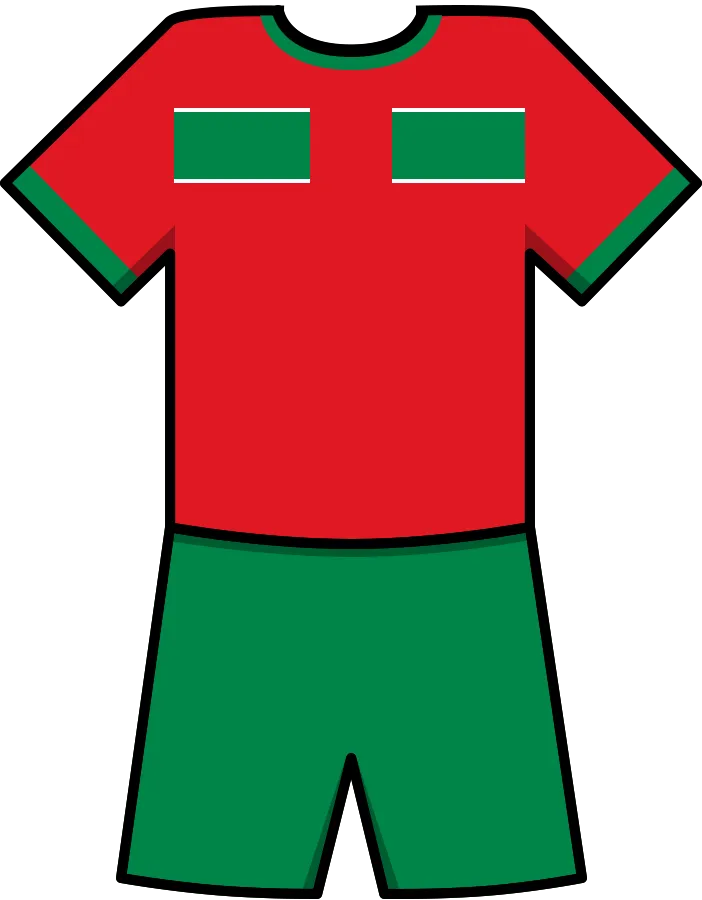
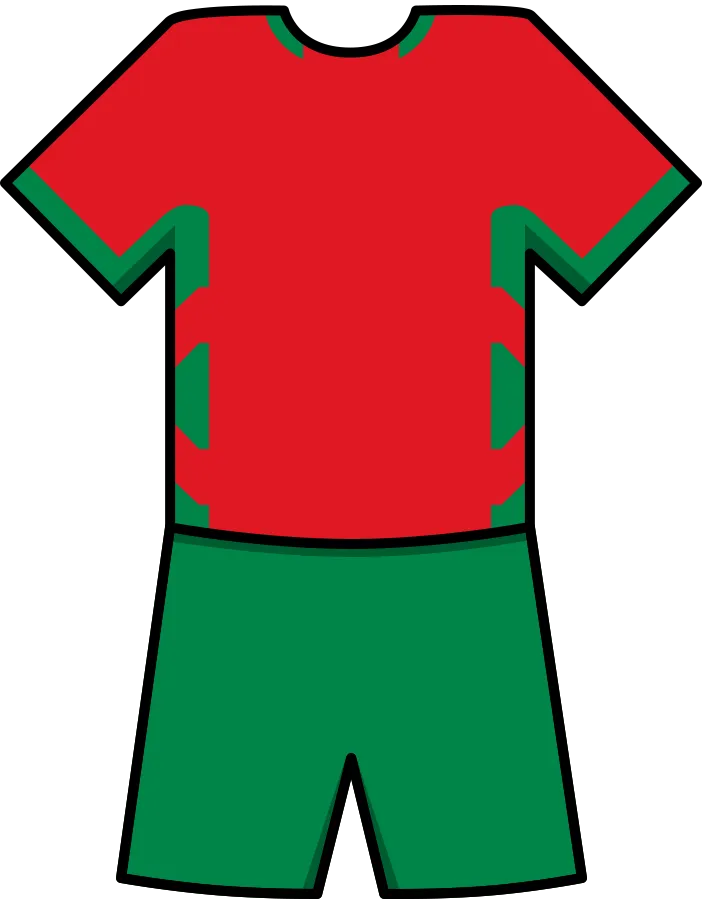
Maroko Kit Fix

diff --git a/src/data/teamKits.ts b/src/data/teamKits.ts
@@ -111,7 +111,7 @@ const TEAM_KIT_STYLE_ROWS = [
   ['kz', '#00AFCA', '#FEC50C', '#003B5C', '#FFFFFF'],
   ['ml', '#FCD116', '#14B53A', '#007A33', '#FFFFFF'],
   ['mx', '#006847', '#FFFFFF', '#FFFFFF', undefined],
-  ['ma', '#C1272D', '#006233', '#FFFFFF', '#006233', '#FFFFFF'],
+  ['ma', '#C1272D', '#006233', '#FFFFFF', undefined, '#FFFFFF'],
   ['nl', '#F36C21', '#111111', '#111111', undefined],
   ['ng', '#008753', '#FFFFFF', '#FFFFFF', '#FFFFFF', '#000000'],
   ['nir', '#006A3A', '#FFFFFF', '#FFFFFF', undefined],

diff --git a/ToDo.md b/ToDo.md
@@ -1,206 +1,122 @@
-Task: Split Tournament Hub Next Match flow into Advance To Next Match and Play Next Match
+Task: Add random artwork to Post notification, unify artwork scaling, and expose Post preview in Dev Lab
 
 Context
 Project: Total Soccer: Mundial.
 Work in main.
 
-Area:
-Tournament mode:
-- Tournament Hub footer
-- match progression flow
-- AI-only auto simulation
-- human-relevant match launch
-- Finish tournament state
+Goal
+Розширити подію "Штанга" так, щоб окрім текстового notification "Post!" за ним показувалось випадкове зображення з двох доступних:
+- public/menu/gk-post-1.webp
+- public/menu/gk-post-2.webp
 
-Important:
-Do not commit.
-Do not edit ToDo.md.
-Report in Ukrainian.
+Також:
+- усі зображення для подій Goal / Save / Post мають масштабуватися однаково
+- для події Post треба зробити типографіку ближчою до Save notification: більший шрифт і той самий стиль побудови напису
+- додати/оновити preview цієї події в Dev Lab
 
-Current behavior
-Tournament Hub has a "Next Match" button.
-It currently:
-- auto-simulates AI-only matches before the next human-relevant match;
-- then immediately launches the next human-relevant match.
+Important visual rules
+- Усі event artworks для Goal / Save / Post мають вихідний розмір 1254x1254 px.
+- Вони повинні рендеритися через єдиний scale contract, щоб візуальний розмір у грі був узгоджений між усіма трьома подіями.
+- Не можна підбирати окремий довільний scale для Post, який ламатиме узгодженість із Goal і Save.
+- Post notification має виглядати візуально “одного сімейства” із Save notification.
 
-New behavior
-Split this into two separate steps/buttons:
+Scope
+- BootScene asset preload
+- shared notification/effect helpers
+- random texture selection reuse
+- Dev Lab preview
+- tests
 
-1. "Advance to next match"
-   - visible/active when there is at least one AI-only unplayed match before the next human-relevant match.
-   - clicking it simulates those AI-only matches only.
-   - after that it stays in Tournament Hub.
-   - after that, this button becomes inactive/hidden because the next scheduled unplayed match is now human-relevant.
+Requirements
 
-2. "Play next match"
-   - renamed from current "Next Match".
-   - active only when the next scheduled unplayed match is human-relevant and there are no AI-only matches before it.
-   - clicking it starts that human-relevant match normally.
+1. Asset preload
+- У BootScene додати preload для:
+  - /menu/gk-post-1.webp
+  - /menu/gk-post-2.webp
+- Texture keys:
+  - gk-post-1
+  - gk-post-2
 
-Terminology / labels
-Use English UI labels unless the project already has localization:
-- Advance to next match
-- Play next match
-- Finish tournament
+2. Random artwork for Post
+- Для події Post щоразу випадково вибирати один доступний texture key з пулу:
+  - gk-post-1
+  - gk-post-2
+- Перевикористати existing helper для випадкового вибору доступної texture, наприклад selectRandomAvailableTextureKey.
+- Не дублювати окрему random-логіку.
 
-Definitions
-- Human-relevant match: an unplayed match where at least one team is not AI-controlled.
-- AI-only match: an unplayed match where both teams are AI-controlled.
-- Next scheduled unplayed match: first unplayed match in tournament schedule order.
+3. Unified artwork scaling for Goal / Save / Post
+- У shared UI/effect layer ввести спільний contract для event artwork size/scale.
+- Goal notification artwork pool, Save artwork pool і новий Post artwork pool повинні використовувати один і той самий visual scale rule.
+- Оскільки всі вихідні файли 1254x1254 px, масштабування має бути однаковим по базовому коефіцієнту або по спільній target-size логіці.
+- Якщо зараз Goal і Save мають різні ad-hoc налаштування, акуратно уніфікувати їх без погіршення вигляду.
+- Після змін Goal / Save / Post мають виглядати як один узгоджений набір notification-artworks.
 
-Detailed requirements
+4. Post typography
+- Для події Post потрібно зробити шрифт як у події Save і трохи збільшити його.
+- Це означає:
+  - використовувати той самий font family / stroke / style family, що у Save
+  - збільшити розмір шрифту відносно поточного Post
+- Текст лишається:
+  - Post!
+- Не потрібно робити дворядковий напис, як у Goalkeeper SAVE, якщо це не потрібно для композиції.
+- Але візуально стиль має бути близьким до Save notification, а сам текст — помітно більшим, ніж зараз.
 
-============================================================
-PART 1 — Footer button state machine
-============================================================
+5. Notification composition
+- Поведінка має бути аналогічна Goal / Save:
+  - image позаду text
+  - text поверх image
+  - shared container
+  - ті самі pop/fade/cleanup principles
+- Якщо відповідні textures недоступні, notification має коректно відпрацювати у text-only mode без crash.
 
-The Tournament Hub footer should choose the correct primary progression action based on schedule state.
+6. Dev Lab
+- Додати або оновити Post preview у Dev Lab так, щоб він використовував той самий shared renderer/effect helper, що й реальний GameScene.
+- Не робити DevLab-only окремий renderer.
+- Preview має показувати:
+  - notification Post!
+  - випадкове одне з двох зображень позаду
+  - існуючу ball animation / outcome effect для Post preview, якщо вона вже є
+- Dev Lab не повинен мутувати match state, score, storage або tournament state.
 
-State A: next scheduled unplayed match is human-relevant
-- Show/enable: Play next match
-- Hide/disable: Advance to next match
-- Hide/disable: Finish tournament
-- Clicking Play next match starts that match.
+7. Do not change
+- Не змінювати match flow, score/stat logic, tournament flow.
+- Не змінювати ToDo.md.
+- Не робити commit.
 
-State B: there are AI-only unplayed matches before the next human-relevant match
-- Show/enable: Advance to next match
-- Hide/disable or disable: Play next match
-- Hide/disable: Finish tournament
-- Clicking Advance to next match simulates only the AI-only matches before the next human-relevant match.
-- It must not start the human-relevant match.
-- It must remain in Tournament Hub after simulation.
-- After the click completes, the footer state should update to State A.
+Implementation guidance
+- Бажано зосередити зміни в shared helpers, де вже живуть Goal / Save / Post outcome notifications/effects.
+- Якщо в коді вже є shared helper для Goal notification і окремий helper для shot outcomes, звести scale contract в одне місце, щоб уникнути розсинхрону.
+- Якщо потрібно, додати невеликий utility/constants block для event artwork sizing.
 
-State C: no future human-relevant matches remain, but tournament has unplayed matches
-- Show/enable: Finish tournament
-- Hide/disable: Advance to next match
-- Hide/disable: Play next match
-- Clicking Finish tournament simulates all remaining matches and opens TournamentCompleteScene.
+Tests
+Оновити/додати тести для:
+- BootScene preload paths для gk-post-1 / gk-post-2
+- random texture selection для Post artwork pool
+- fallback text-only path, якщо textures недоступні
+- shared Post notification container layering / cleanup
+- Post notification typography contract:
+  - використовує same style family as Save
+  - font size збільшений відносно старого Post
+- unified artwork scale contract:
+  - Goal / Save / Post використовують той самий target size / scale rule
+- Dev Lab preview використовує shared Post effect, а не окрему кастомну реалізацію
+- deterministic randomness через injected random/stub, щоб тести не були flaky
 
-State D: tournament complete
-- TournamentCompleteScene behavior remains unchanged.
-
-============================================================
-PART 2 — Advance to next match behavior
-============================================================
-
-When pressing Advance to next match:
-1. Find the next future human-relevant match.
-2. Simulate every unplayed AI-only match before it in schedule order.
-3. Do not simulate the human-relevant match itself.
-4. Stay in Tournament Hub.
-5. Update and save:
-   - match cards
-   - group standings
-   - playoff seeding/bracket if affected
-   - tournament progress counter
-   - tournament stats
-   - footer button state
-6. If the simulation of AI-only matches causes playoff bracket updates that reveal the next human-relevant match, state should refresh correctly.
-
-Important edge cases:
-- If no human-relevant match exists, Advance to next match should not be shown. Use Finish tournament instead.
-- If the next scheduled match is already human-relevant, Advance to next match should not be shown.
-
-============================================================
-PART 3 — Play next match behavior
-============================================================
-
-When pressing Play next match:
-1. Check the next scheduled unplayed match.
-2. It must be human-relevant.
-3. Start/open this match through the normal playable tournament match flow.
-4. Do not auto-simulate anything in this button.
-5. If the next scheduled match is AI-only, Play next match must be disabled/hidden and Advance to next match should be available instead.
-
-============================================================
-PART 4 — Finish tournament behavior
-============================================================
-
-Keep current Finish tournament behavior:
-- shown when no human-relevant future match remains;
-- simulates all remaining matches in order;
-- opens TournamentCompleteScene after final.
-
-Make sure the new split flow does not regress this behavior.
-
-============================================================
-PART 5 — Remove old Next Match label
-============================================================
-
-The old label "Next Match" should no longer appear in Tournament Hub footer.
-Use:
-- Advance to next match
-- Play next match
-- Finish tournament
-
-============================================================
-PART 6 — Preserve existing decisions
-============================================================
-
-Do not restore Sim / Play buttons on match cards.
-Do not change:
-- Matches tab card visuals except if tests need button absence adjusted
-- group-stage calendar order
-- tournament stats aggregation
-- simulated assists/saves consistency
-- TournamentCompleteScene visual layout
-- Tournament Setup
-- Playoff geometry
-- Stats layout
-- save format unless strictly necessary
-- ToDo.md
-
-============================================================
-PART 7 — Tests
-============================================================
-
-Add/update tests for:
-
-1. If AI-only matches exist before the next human-relevant match:
-   - footer shows Advance to next match
-   - footer does not show Play next match as active
-   - old Next Match label is not shown
-
-2. Pressing Advance to next match:
-   - simulates all preceding AI-only matches
-   - does not launch the human-relevant match
-   - does not open GameScene
-   - remains in Tournament Hub
-   - updates match results/cards/progress/stats/save
-   - after completion, footer switches to Play next match
-
-3. If the next scheduled unplayed match is human-relevant:
-   - footer shows Play next match
-   - Advance to next match is not active
-   - pressing Play next match launches the match
-
-4. If no future human-relevant matches remain:
-   - footer shows Finish tournament
-   - Advance to next match is not shown
-   - Play next match is not shown
-
-5. Finish tournament:
-   - still simulates remaining matches
-   - still opens TournamentCompleteScene
-
-6. Regression:
-   - no Sim / Play buttons are rendered on match cards
-   - group-stage calendar order remains matchday-based
-   - simulated AI-only stats still include goals/assists/saves
-   - Cup M / Cup L / Cup XL behave correctly
-
-Validation:
+Validation
 Run:
-npm test
-npm run build
-git diff --check
+- npm test
+- npm run build
+- git diff --check
 
-Final report in Ukrainian:
-1. changed files
-2. how footer state machine works
-3. how Advance to next match works
-4. how Play next match works
-5. how Finish tournament remains unchanged
-6. test/build/diff-check results
-7. confirm no commit was made
+Report
+Звіт українською.
+Вказати:
+- які файли змінені
+- як названі texture keys
+- де зберігається shared artwork scale contract
+- як уніфіковано scale для Goal / Save / Post
+- чи Post typography приведена до стилю Save і збільшена
+- чи Dev Lab і GameScene використовують спільну реалізацію
+- результати npm test / npm run build / git diff --check
+
+Do not commit.
